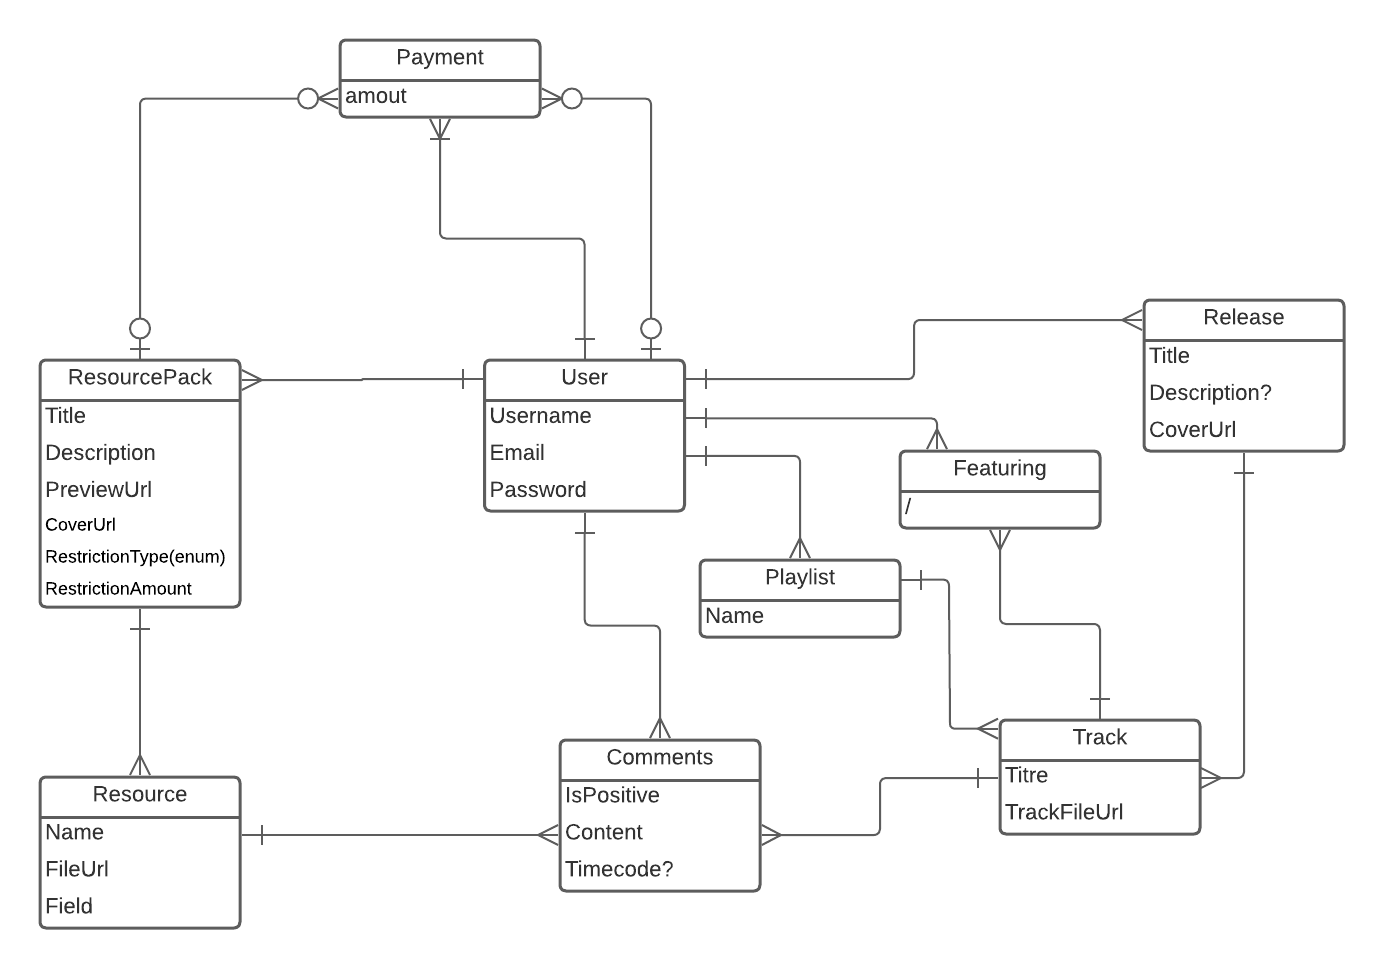
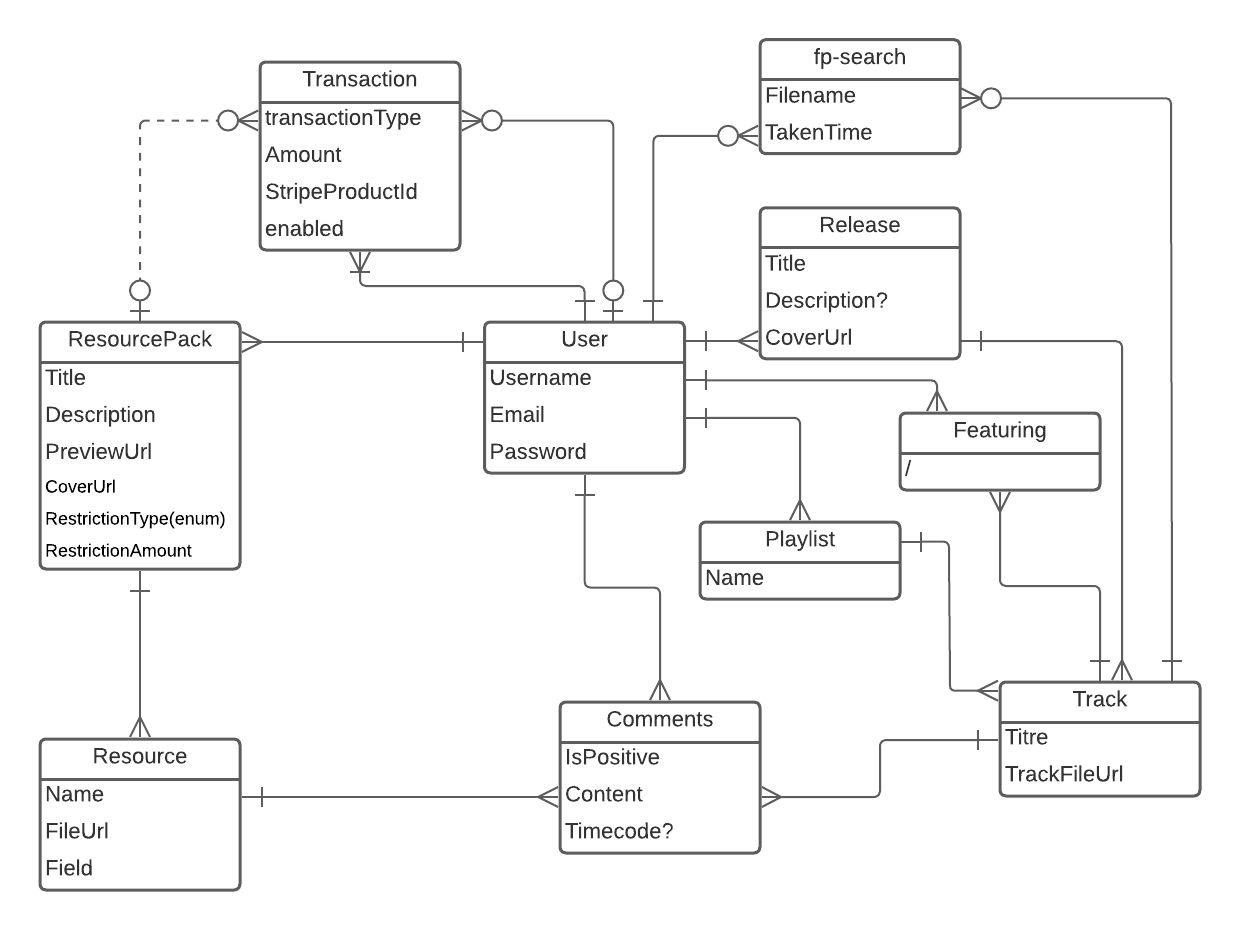
document API

Changed region(s): [[0.0, 0.0312, 0.9806, 0.9667], [0.5516, 0.0312, 0.95, 0.1871], [0.3984, 0.2806, 0.429, 0.3118]]

diff --git a/README.md b/README.md
@@ -1,51 +1,218 @@
-![](./doc/badges/coverage.svg)
-# Uni-verse API
-Uni-verse is a platform allowing music creators to share both their content and their resources. 
+# Api Uni-verse
 
-This API serves for business rules, and is used aas main API as opposed to a microservice architecture. 
+Uni-verse est une plateforme de streaming audio conçue spécifiquement pour les producteurs de musique.
+Elle consiste en un site web, une application smartphone, et une API.
 
-It communicates with another tinier API for fingerprinting purposes, and with 3 clients
-## Documentation
+Ce projet est l'api de Uni-verse.
+
+Cette API est l'element central de l'infrastructure de Uni-Verse. En effet, toutes les données transitent par cet element.
+
+Actuellement, l'API est en ligne à l'[addresse suivante](https://uni-verse.api.vagahbond.com), et sa documentation Swagger à l'[addresse suivante](https://uni-verse.api.vagahbond.com/docs)
+
+## Structure des données:
 
 ### UML
 ![UML](doc/assets/UML.png)
 
-### Routes
-Routes are documented automatically using Swagger.
+### User
+Représente un utilisateur de la plateforme. Tous les utilisateurs sont considérés comme des producteurs et sont suceptibles de publier des musiques et des ressources. Il est toutefois necessaire de faire l'onboarding Stripe afin de rendre disponible des ressources payantes.
+### Release
+Une release est une liste de tracks qui vont ensemble. Il peut s'agir d'un EP, d'un album, d'un LP, voire même d'un single. Toute track est publiée dans une release, qui doit avoir une couverture.
+### Track
+Une track est une musique, une chanson. L'entité `track` a pour premier but de pointer vers un fichier que l'on peut lire.
+### Comment
+Dans Uni-verse, il est possible de mettre un "like" ou un "dislike" mais il doit être justifié. Un pouce en l'air ou vers le bas doit être accompagné d'un commentaire.
+### ResourcePack
+Un pack de ressources est un package qui contient plusieurs ressources. Ces ressources sont soit des samples (court fichier son que l'on ajoute à sa musique), soit des presets que l'on peut charger dans l'editeur de musique.
+### Resource
+Une ressource est une partie d'un ressource pack. Il s'agit d'un fichier, que ce soit un fichier son ou un fichier de réglage de plugin de logiciel audio.
+### FpSearch
+Une recherche par fingerprint est une recherche qui a été effectuée par un utilisateur dans la base de uni-verse. On en garde la trace afin de pouvoir faire des statistiques sur le taux de reussite dnas le futur.
+### Featuring
+Un utilisateur peut être relié a une track par le biais de l'entité "featuring". Cela indique qu'il a travaillé sur cette track avec son auteur.
+### Playlist
+Il est possible de créer des playlists, qui contiennent une liste de tracks.
+### Transaction
+Une transaction représente un achat de resourcepack, ou un don fait par un utilisateur à un autre utilisateur.
 
-Documentation can be found at [https://uni-verse.api.vagahbond.com/docs/](https://uni-verse.api.vagahbond.com/docs/)
-## Setup
+## Stack technique
 
-### Requirements
-* Docker
-* docker-compose
+### Typescript
+Pour l'API de uni-verse, nous avons choisi d'utiliser NodeJS avec Typescript pour la maintenabilité.
 
-### Run
-To setup locally:
-* Clone this repository
-* Fill env file according to your needs
-* Run `docker-compose up`.
+### NestJS
+L'API pour nest est basé sur [NestJS](https://docs.nestjs.com/). Sa structure prédéfinie et sa flexibilité dans la créaction de services et de middlewares permet de gagner du temps dans le développement, et d'avoir rapidement un API prêt pour la production.
+### Swagger
+La documentation de l'API est générée à l'aide de [Swagger](https://swagger.io/docs/). Swagger permet une automatisation rapide et pratique de la documentation, sans sacrifier la qualité puisqu'il permet de faire enormement de choses, comme rendrela documentation interactive.
 
+![](doc/assets/swagger.png)
+
+### Mongoose
+L'API de Uni-verse repose sur une base de données MongoDB et communique avec via l'ORM [Mongoose](https://mongoosejs.com/).
+
+### Docker
+Ce produit est distribué par le biais d'une image [docker](https://www.docker.com/), construite dans une pipeline Github-Actions et publiée dans un registre privé docker.
+L'image docker permet de repliquer l'environnement dont Uni-verse a besoin en une seule commande, et de l'utiliser plus facilement sur le cloud.
+
+### ESLint et Prettier
+Afin d'enforcer les conventions de codage, [Eslint](https://eslint.org/) et [Prettier](https://prettier.io/) ont été mis en place et intégré dans GitHub-Actions.
+
+### Kubernetes
+Des deploiements, services, volumes claims et une configmap dans ce répo permettent de déployer facilement cette infrastructure en production dans Kubernetes.
+
+### Github Actions
+Github-Actions est utilisé pour plusieur aspects du projet:
+1) Faire respecter les conventions de code en faisant tourner prettier et eslint sur chaque PR
+2) Faire tourner les tests sur chaque PR et chaque nouveau commit dans `main`
+3) Construire l'image docker et la publeir dans le registre privé à chaque release créée sur Github.
+
+### Winston + Filebeat
+Les logs de l'API sont écrites en continue dans un fichier, partagé sous forme de volume avec une instance FileBeat qui récupère les logs et les envoit à Kibana sous un format spécifiques, afin qu'elles soient accessibles depuis un dashboard.
+
+
+## Contribuer
+
+### Environnement de développement
+Afin de developper localement, un docker-compose a été mis en place et permet de simuler toute l'architectuer du projet, avec ses differents composants.
+
+Pour développer sur ce projet, il faut remplir `docker.env` avec les variables suivantes :
+```
+ME_CONFIG_MONGODB_SERVER=mongodb
+ME_CONFIG_MONGODB_ADMINUSERNAME=root
+ME_CONFIG_MONGODB_ADMINPASSWORD=pass
+ME_CONFIG_BASICAUTH_USERNAME=root
+ME_CONFIG_BASICAUTH_PASSWORD=pass
+MONGO_INITDB_ROOT_USERNAME=root
+MONGO_INITDB_ROOT_PASSWORD=pass
+MONGO_INITDB_DATABASE=db
+MONGO_HOSTNAME=mongodb
+MONGO_USERNAME=root
+MONGO_PASSWORD=pass
+MONGO_PORT=27017
+MONGO_DATABASE=uniVerse
+PORT=3000
+JWT_ACCESS_TOKEN_SECRET=uniVerseJwtSecret
+JWT_ACCESS_TOKEN_EXPIRATION_TIME=60s
+JWT_REFRESH_TOKEN_SECRET= uniVerseJwtSecret
+JWT_REFRESH_TOKEN_EXPIRATION_TIME= 24h
+MINIO_ROOT=miniokey
+MINIO_ROOT_USER=root
+MINIO_ROOT_PASSWORD=miniosecret
+MINIO_ENDPOINT=minio
+MINIO_PORT=9000
+FRONTEND_URL=http://localhost:3005
+GF_SECURITY_ADMIN_USER=admin
+GF_SECURITY_ADMIN_PASSWORD=pass
+ELASTIC_USERNAME=elastic
+ELASTIC_PASSWORD=admin
+ELASTICSEARCH_NODE=http://elasticsearch:9200
+RMQ_URL=rabbitmq
+RMQ_PORT=5672
+IN_QUEUE_NAME=uni-verse-fp-in
+INTERNAL_API_HOST=dev
+INTERNAL_API_PORT=3000
+RMQ_URL=rabbitmq
+RMQ_PORT=5672
+RMQ_USER=guest
+RMQ_PASSWORD=guest
+ONBOARD_REFRESH_URL=https://uni-verse.api.vagahbond.com/payments/refresh
+STRIPE_WEBHOOK_SECRET=
+
+```
+L'API refusera de démarrer s'il remarque qu'il lui manque des variables.
+
+Une fois les variables en place, il suffit de lancer la stack avec `docker-compose up`.
+
+## Architecture
+![](doc/assets/archi.png)
+### Api
+Element central de l'architecture, l'API est au centre de tous les échanges de données.
+### MongoDB
+Base de donnée utilisée par l'API afin de sauvegarder ses modèles. La base de donnée document, dans le cas de uni-verse, offre des avantages en terme d'implementation.
+### RabbitMQ
+RabbitMQ est utilisé dans cette stack en tant que queue d'instructions, dans un style emetteur-consommateur: l'API emmet des messages qui sont consommés par les FP-workers, qui eux memes font appel à l'API quand ils ont fini.
+### FP Worker
+Les FP workers sont des pods contenant un code simple qui sont executés dans le but de générer l'empreinte d'un fichier audio, ou d'effectuer une recherche par empreinte. Une fois le resultat d'une recherche obtenue, une requete est faite pour mettre à jour l'etat de la recherche dans la base.
+### Minio
+Minio sert à stocker tous les fichiers, qu'il s'agisse d'images, de fichiers sons, ou autres.
+
+### Elastic Search
+Elastick search permet, grâce à des indexes, de faire des recherches rapides et optimisées de contenu.
+### Kibana
+Kibana permet d'avoir une interface en lien direct avec Elastic search, et avec Filebeat. De cette façon on peut consulter les index créés par l'API, ainsi que les logs récoltés par Filebeat.
+### Filebeat
+Filebeat permet de reecupérer des logs dans un fichier, et de les envoyer automatiquement à Kibana.
+### Android app
+L'applicaiton android se connecte à l'API et à Minio, et permet aux utilisateurs d'écouter la musique disponible sur la plateforme.
+### Frontend
+Le frontend permet de mettre en ligne et consulter les tracks et ressources.
+
+
+
+### Séquences importantes
+#### Upload d'une release:
+```mermaid
+sequenceDiagram
+    Frontend->>+API: Http query as multipart with files
+    API->>+Minio: Send files for storage
+    API->>+Mongo: Send data for storage
+    API->>-Frontend: Request has been executed
+    API->>+RabbitMQ: Insert new message in queue
+    RabbitMQ->>+Worker: Message gets consumed by a worker
+    Worker->>+Minio: Fetches the file and extracts
+
+```
+
+#### Recherche par fingerprint audio:
+```mermaid
+sequenceDiagram
+    App->>+API: Http query as multipart with extract file
+    API->>+Minio: Send extract for storage
+    API->>+Mongo: Create a new search entry
+    API->>-App: Request has been executed
+    API->>+RabbitMQ: Insert new message in queue
+    RabbitMQ->>+Worker: Message gets consumed
+    Worker->>+Minio: Fetches the file and does search
+    Worker->>-API: Updates Search entry with results
+    App->>+API: Queries for the results
+
+```
+
+### Conventions de codage
+Les conventions de codage poussées par Prettier et ESLint sont basées sur les configurations recommendées directement par l'écosystème NodeJS. On peut les consulter [dans la documentation de eslint typescript](https://typescript-eslint.io/docs/linting/configs).
+
+Les règles prncipales à retenir sont que les variables doivent être en lowerCamelCase, ainsi que les fonctions. Eslint veille aussi aux imports et variables non utilisees.
+
+Si les conventions de codage ne sont pas respectées, une PR ne peut pas être mergée, car elle ne passera pas les tests de l'intégration continue.
 
 ## Production
-Production is automaticaly updated thanks to the CI pipeline.
 
-It runs on a self hosted Kubernetes cluster. So far, we use a subdomain of vagahbond.com for money reasons.
+### Api
+Pour l'API, ce répos fournis un volume (pour les logs), une configmap, un déploiement et un service.
 
-The url is [uni-verse.api.vagahbond.com](uni-verse.api.vagahbond.com)
+### MongoDB
+Pour MongoDB, ce répos fournit un volume, un déploiement et un service.
 
-The pipeline builds a docker image that it sends to a private registry. 
-Then, production pods that are restarted will pull the latest version of the api.
+### RabbitMQ
+RabbitMQ est disponible sous forme de Helm chart, s'installant sans configuration.
 
-## Test
+### FP Worker
+Les workers uni-verse sont fournsi sous forme de volume, service et déploiement dans [leur répos](https://github.com/uni-verse-fm/uni-verse-worker).
 
-```bash
-# unit tests
-$ npm run test
+### ES
+Elastic Search est disponible sous forme de Helm Chart permettant l'installation d'un cluster scalable assez rapidement.
 
-# e2e tests
-$ npm run test:e2e
+### Filebeat
+Filebeat fonctionne grâce à un daemonset qui maintient un pod en vie. Ce pod partage son volume avec l'API, afin de récupérer ses logs
 
-# test coverage and coverage badge generation
-$ npm run test:cov
-```
+### Kibana
+Kibana est disponible sous forme de Helm Chart, assez facile à configurer à l'aide d'options.
+
+### Prometheus + Grafana
+Prometheus et grafana sont tous deux disponibles sous forme de Helm chart, ce qui permet une isntallation rapide de ceux-ci.
+
+### Minio
+Minio aussi est disponible sous forme de Helm chart. Il est préférable de l'utiliser car il s'agit d'une installation complexe et scallable sur plusieur serveurs en fonction de la demande.
+
+### Frontend
+Le frontend contient des fichiers permettant de le mettre en production dans [son répos](https://github.com/uni-verse-fm/uni-verse-frontend).
